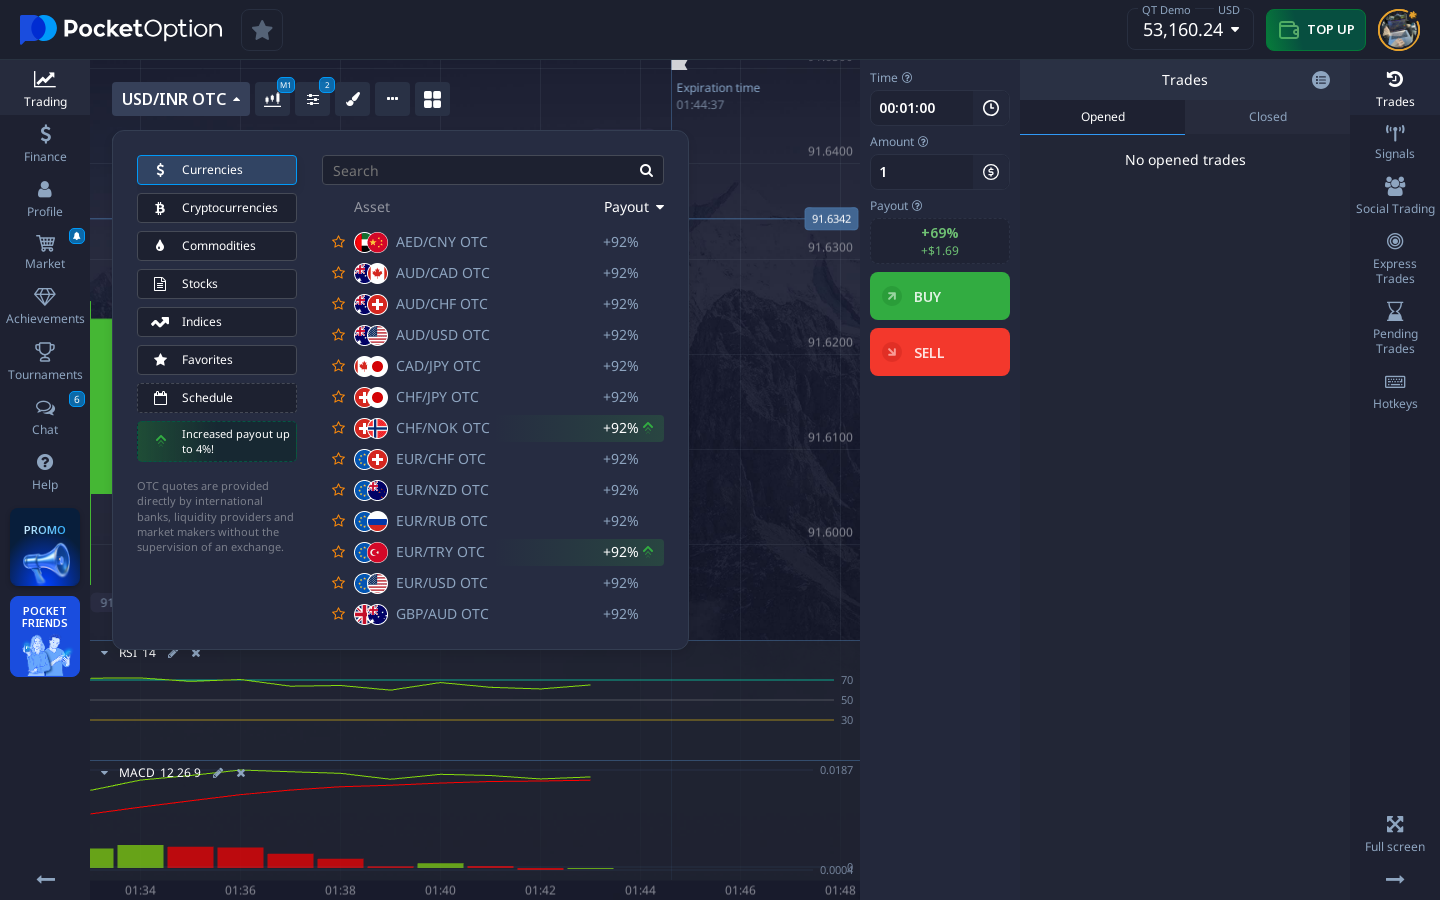
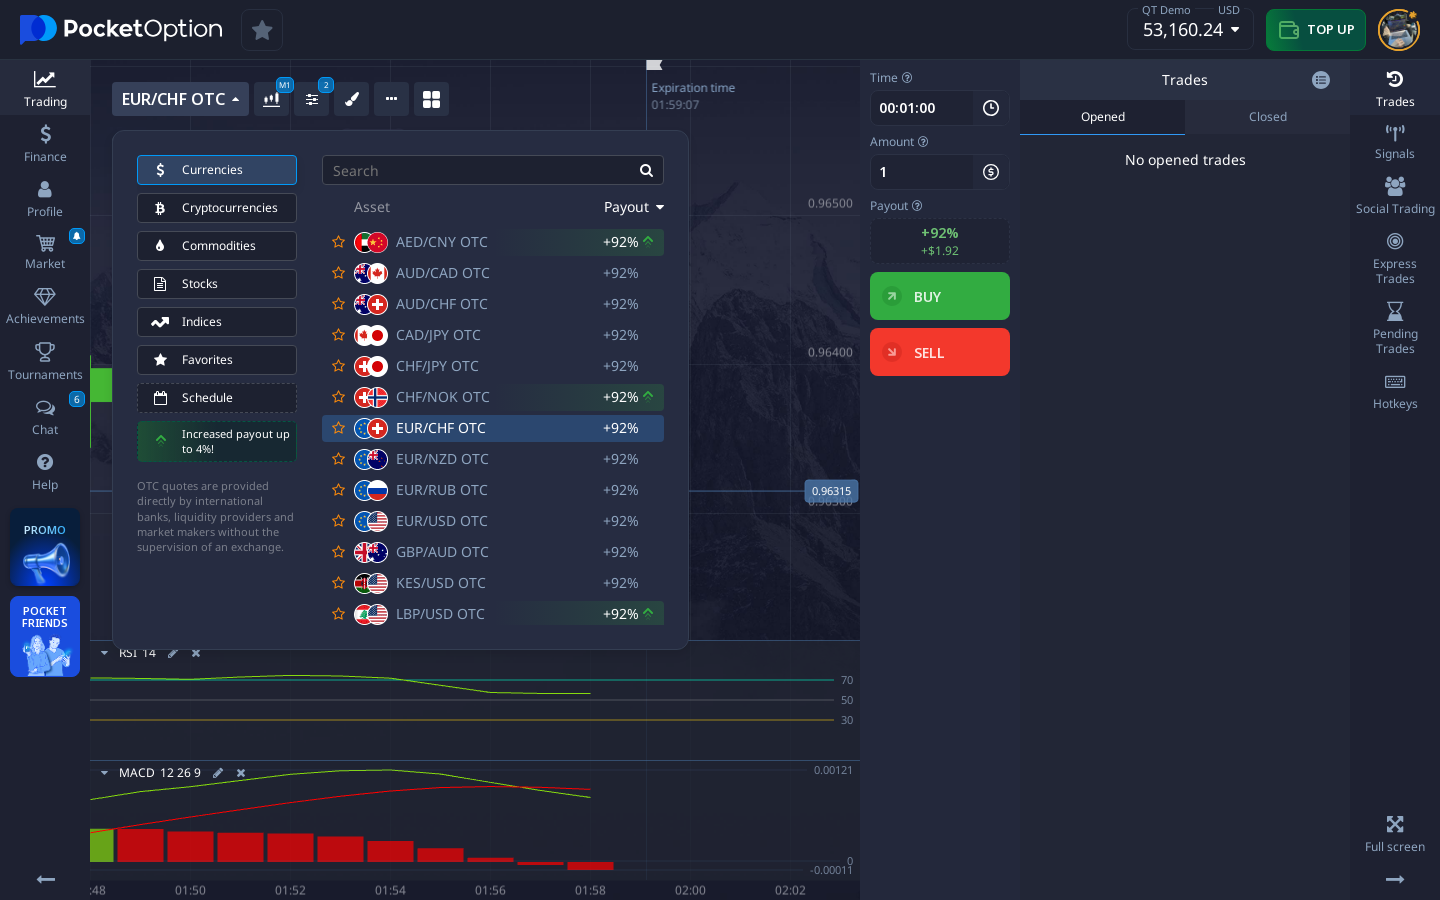
Improve pair filtering for higher payout percentages
Update pair caching to fetch pairs with at least 82% payout and filter the manual pair list to show only pairs with at least 85% payout.

Replit-Commit-Author: Agent
Replit-Commit-Session-Id: 7744b618-5af8-4012-a323-5ac7a7be372f
Replit-Commit-Checkpoint-Type: full_checkpoint
Replit-Commit-Event-Id: d7a547a6-6d59-4653-8699-6584be3ebd7e
Replit-Helium-Checkpoint-Created: true

diff --git a/signal_bot/bot/handlers.py b/signal_bot/bot/handlers.py
@@ -819,15 +819,19 @@ async def _show_pairs_keyboard(callback: CallbackQuery, *, force_refresh: bool =
         )
         await pairs_cache.refresh(force=force_refresh)
 
-    pairs = pairs_cache.get_cached()
-    has_live = any(p.get("payout", 0) > 0 for p in pairs)
+    all_pairs = pairs_cache.get_cached()
+    has_live = any(p.get("payout", 0) > 0 for p in all_pairs)
 
+    # For the manual pair list, show only pairs with payout >= 85%
+    SIGNAL_MIN_PAYOUT = 85
     if has_live:
+        pairs = [p for p in all_pairs if p.get("payout", 0) >= SIGNAL_MIN_PAYOUT or p.get("payout", 0) == 0]
         header = (
             f"📊 <b>Доступные OTC-пары</b>\n"
-            f"<i>Только с выплатой ≥80% · Обновлено сейчас</i>"
+            f"<i>Только с выплатой ≥{SIGNAL_MIN_PAYOUT}% · Обновлено сейчас</i>"
         )
     else:
+        pairs = all_pairs
         header = (
             "📊 <b>Выберите OTC-пару:</b>\n"
             "<i>⚠ Не удалось загрузить актуальные данные — показан стандартный список</i>"

diff --git a/signal_bot/main.py b/signal_bot/main.py
@@ -101,10 +101,10 @@ async def main() -> None:
 
     logger.info("Starting Pocket Option Signal Bot")
 
-    # Fetch live OTC pairs from PocketOption (payout ≥ 80%).
+    # Fetch live OTC pairs from PocketOption (payout ≥ 82% for recommended, ≥ 85% for manual list).
     # This runs BEFORE candle warm-up so the refresher gets the real list.
     # Falls back to config.OTC_PAIRS automatically if browser fetch fails.
-    logger.info("Fetching live OTC pairs from PocketOption (payout ≥ 80%%)...")
+    logger.info("Fetching live OTC pairs from PocketOption (payout ≥ 82%%)...")
     try:
         live_pairs = await pairs_cache.refresh(force=True)
         logger.info("Live pairs loaded: %d pairs", len(live_pairs))

diff --git a/signal_bot/services/pairs_cache.py b/signal_bot/services/pairs_cache.py
@@ -14,7 +14,7 @@ import config
 logger = logging.getLogger(__name__)
 
 CACHE_TTL_SEC = 15 * 60   # 15 minutes
-MIN_PAYOUT    = 80        # only show pairs with payout >= this
+MIN_PAYOUT    = 82        # only show pairs with payout >= this (recommended pairs threshold)
 
 _cache: list[dict] = []
 _cache_ts: float   = 0.0
